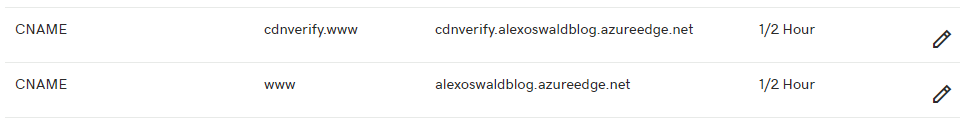
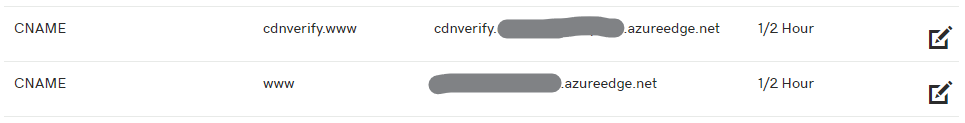
Updates

diff --git a/_drafts/creating-my-static-blog-site.md b/_drafts/creating-my-static-blog-site.md
@@ -1,5 +1,5 @@
 ---
-title: "Creating a Fast Blog with Jekyll, Dev Containers & Azure CDN!"
+title: "Creating a Static Blog with Jekyll, Dev Containers & Azure CDN!"
 date: 2020-10-24
 toc: true
 toc_label: 'Outline'
@@ -305,42 +305,17 @@ This process may take a few minutes. Once complete, open a browser and navigate 
 ---
 
 
-
-
-
-
-
-
-
-
-
-
-
-
-
-
-
-
-
-
-
-
-## Configure Azure CDN to enforce HTTPS & setup custom domains
-
-Now we want to utilize Azure CDN to cache the static site so it is fast & secure for viewers.
-
->**IMPORTANT**  
->I was able to get my apex domain added as a custom domain to my Azure CDN endpoint, but Azure no longer supports using their free SSL certificates for apex domains. I can't purchase one because it would blow my yearly budget. The option I came up with involves setting up Azure CDN using the `www` subdomain and then forwarding requests to the apex domain to the www subdomain. While I personally dislike having to use the `www` subdomain at all, it is providing me a free SSL certificate.
-
-![azure-cdn-apex-https-fail](/assets/images/2020-10-25/azure-cdn-apex-https-fail.png)
-
-
+## Setup custom domain
 
 ### Add DNS records to domain
 
 In order to setup our custom domains Azure needs to verify you own the domain so we need to setup some CNAME records that Azure can verify.
 
-Add a CNAME with **Host** `www` and **Value** `myblog-endpoint.azureedge.net`.
+Go to your domain providers DNS management page.
+
+Add a CNAME with **Host** `cdnverify.www` and **Value** `cdnverify.endpointname.azureedge.net`.
+
+Add a CNAME with **Host** `www` and **Value** `endpointname.azureedge.net`.
 
 I'm using GoDaddy for my domains.
 
@@ -376,68 +351,29 @@ In my experience, the certificate deployment process can take a few hours to com
 
 Once complete, the screen should look like the below.
 
-
-
 ![https-successfully-enabled](/assets/images/2020-10-25/https-successfully-enabled.png)
 
 
-### Complete custom domain setup
 
 
-![godaddy-domain-forwarding](/assets/images/2020-10-25/godaddy-domain-forwarding.png)
 
 
----
 
 
-## Setup special HTTP rules for the CDN endpoint
-
-Change text to lowercase.
-
-![Screenshot](/assets/images/2020-10-25/change-to-lowercase.png)
 
 
-HSTS Header
 
-![Screenshot](/assets/images/2020-10-25/hsts-header.png)
 
-HTTP to HTTPS Redirect
 
-![Screenshot](/assets/images/2020-10-25/http-to-https-redirect.png)
 
-Redirect Root to WWW
-
-**DID NOT WORK FOR ME**
-
-This wasn't working for me. I had to use GoDaddy to forward the domain to the www subdomain, which was mapped to the Azure CDN endpoint.
-
-![Screenshot](/assets/images/2020-10-25/redirect-root-to-www.png)
 
 
 ---
 
-
-## Releasing a build to the static site container
-
-
-
----
 
 ## Appendixes
 
-
-### Appendix A: Site urls
-
-http://alexoswald.com - Redirected to Origin with GoDaddy domain forwarding
-
-https://alexoswald.com - 
-
-http://www.alexoswald.com - Redirected to Origin with CDN HTTP rule
-
-https://www.alexoswald.com - Origin
-
-
-### Appendix B: DevOps Code
+### Appendix A: DevOps Code
 
 `azure-pipelines.yaml`
 
@@ -518,13 +454,100 @@ steps:
     inlineScript: 'az cdn endpoint purge --profile-name $(cdnProfile) --content-paths /* --name $(endpointName) --resource-group $(resourceGroup)'
 ```
 
+
 ---
 
 
-### Appendix C: References
+### Appendix B: References
 
 Here are some other developer blog posts that helped me complete this project.
 
 - [https://arlanblogs.alvarnet.com/adding-a-root-domain-to-azure-cdn-endpoint/](https://arlanblogs.alvarnet.com/adding-a-root-domain-to-azure-cdn-endpoint/)
 - [https://www.glennprince.com/article/moving-my-site-onto-a-cdn/](https://www.glennprince.com/article/moving-my-site-onto-a-cdn/)
 - [https://www.duncanmackenzie.net/blog/azure-cdn-rules/#redirecting-the-root-domain-to-the-www-version](https://www.duncanmackenzie.net/blog/azure-cdn-rules/#redirecting-the-root-domain-to-the-www-version)
+
+
+---
+
+---
+
+---
+
+---
+
+---
+
+---
+
+---
+
+---
+
+---
+
+---
+
+---
+
+---
+
+---
+
+---
+
+---
+
+---
+
+---
+
+---
+
+Now we want to utilize Azure CDN to cache the static site so it is fast & secure for viewers.
+
+>**IMPORTANT**  
+>I was able to get my apex domain added as a custom domain to my Azure CDN endpoint, but Azure no longer supports using their free SSL certificates for apex domains. I can't purchase one because it would blow my yearly budget. The option I came up with involves setting up Azure CDN using the `www` subdomain and then forwarding requests to the apex domain to the www subdomain. While I personally dislike having to use the `www` subdomain at all, it is providing me a free SSL certificate.
+
+![azure-cdn-apex-https-fail](/assets/images/2020-10-25/azure-cdn-apex-https-fail.png)
+
+
+---
+
+
+## Setup special HTTP rules for the CDN endpoint
+
+Change text to lowercase.
+
+![Screenshot](/assets/images/2020-10-25/change-to-lowercase.png)
+
+
+HSTS Header
+
+![Screenshot](/assets/images/2020-10-25/hsts-header.png)
+
+HTTP to HTTPS Redirect
+
+![Screenshot](/assets/images/2020-10-25/http-to-https-redirect.png)
+
+Redirect Root to WWW
+
+**DID NOT WORK FOR ME**
+
+This wasn't working for me. I had to use GoDaddy to forward the domain to the www subdomain, which was mapped to the Azure CDN endpoint.
+
+![Screenshot](/assets/images/2020-10-25/redirect-root-to-www.png)
+
+![godaddy-domain-forwarding](/assets/images/2020-10-25/godaddy-domain-forwarding.png)
+
+---
+
+
+### Appendix A: Site urls
+
+http://alexoswald.com - Redirected to Origin with GoDaddy domain forwarding
+
+https://alexoswald.com - 
+
+http://www.alexoswald.com - Redirected to Origin with CDN HTTP rule
+
+https://www.alexoswald.com - Origin
